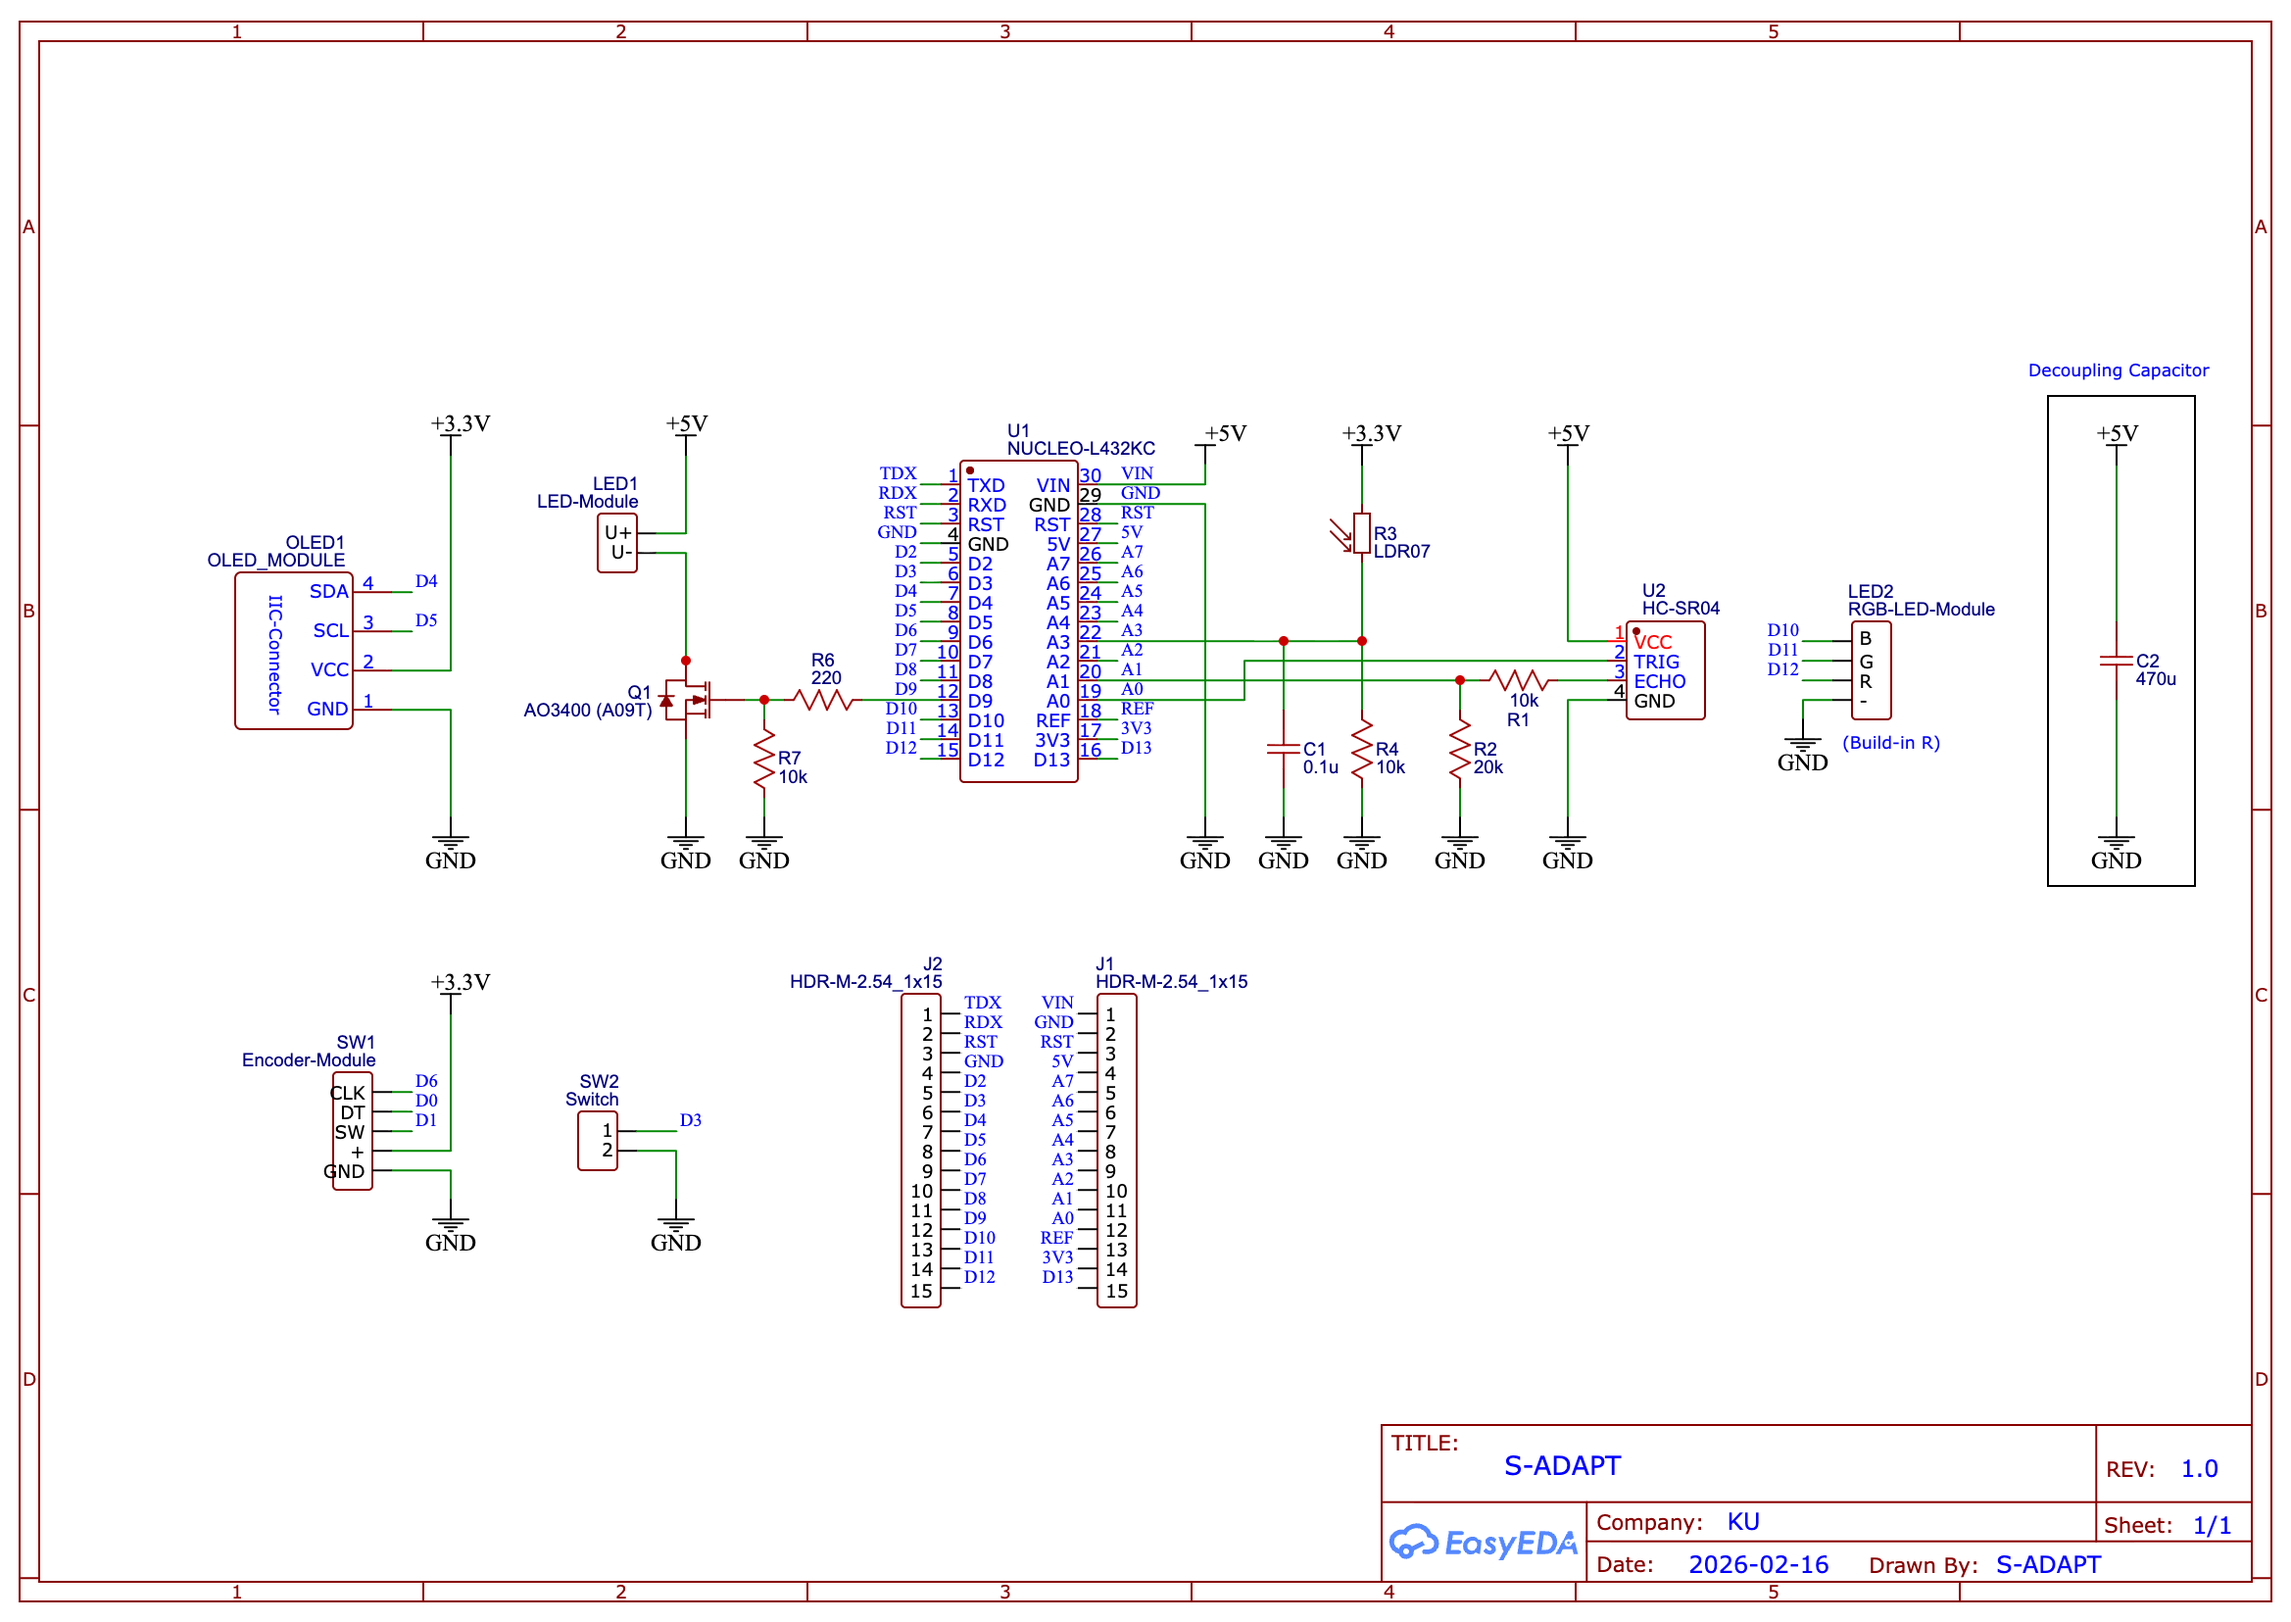
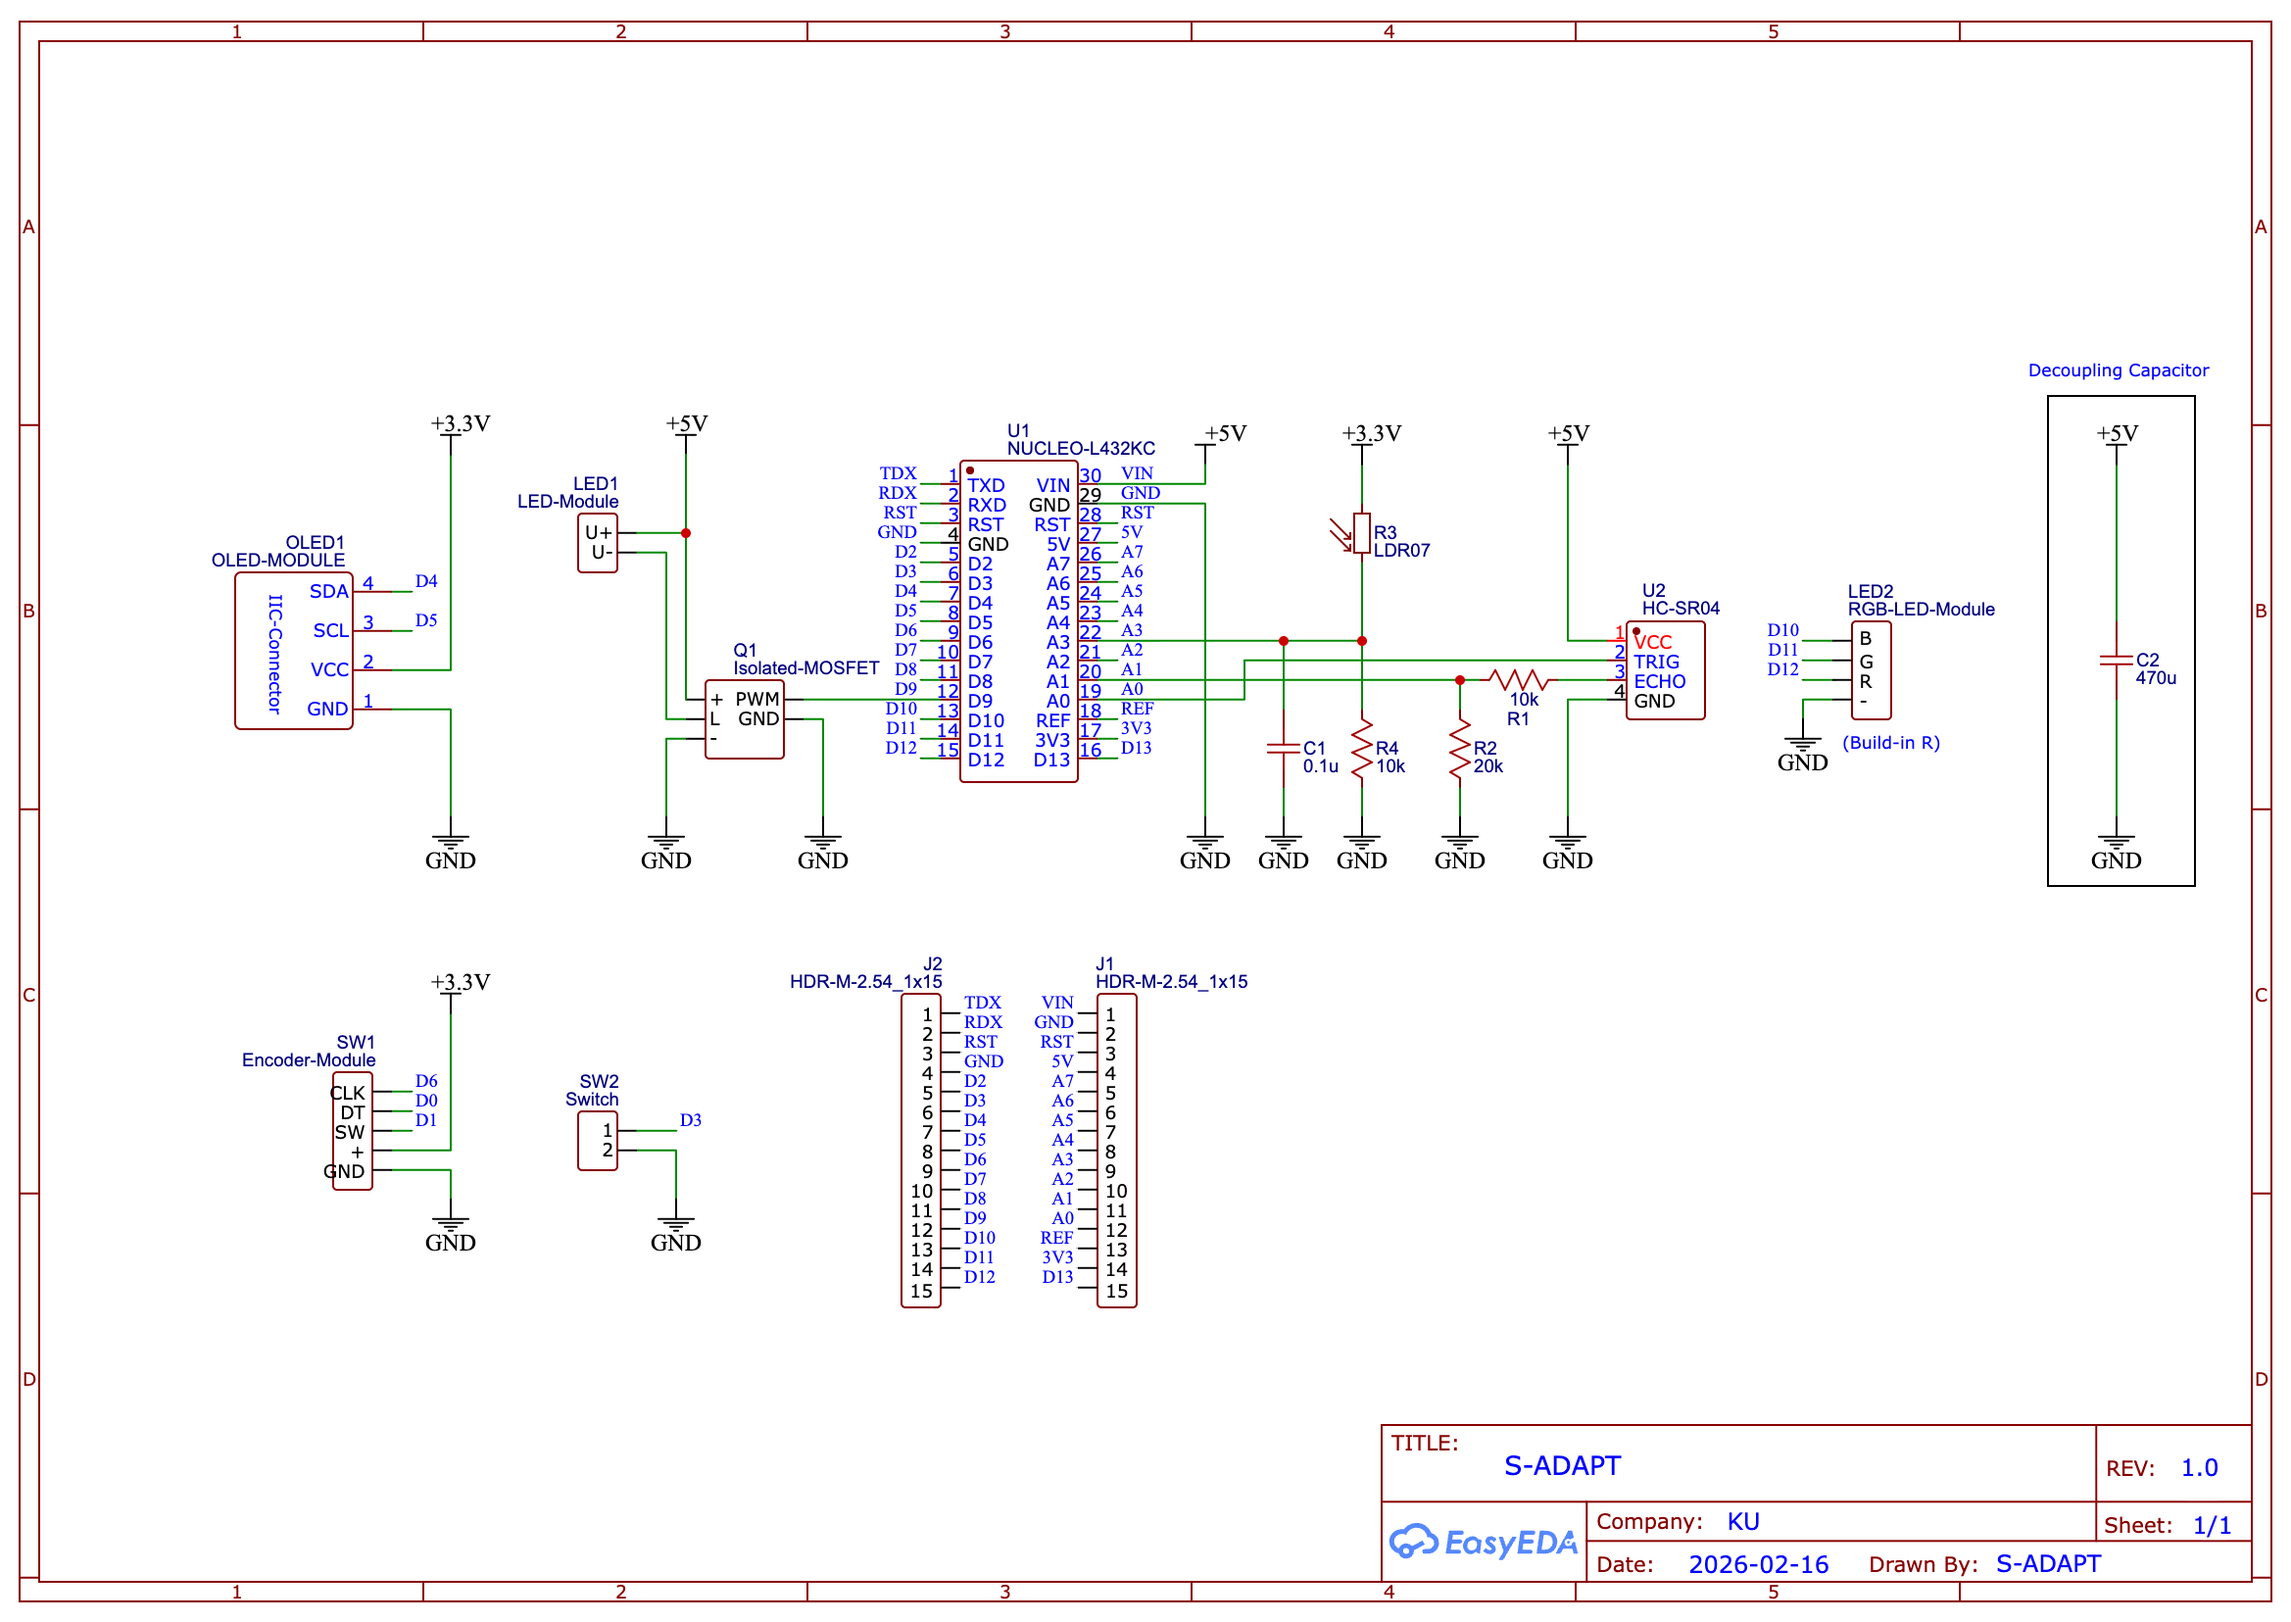
docs(hardware): update references for isolated MOSFET lamp module

diff --git a/docs/architecture/Architecture.md b/docs/architecture/Architecture.md
@@ -23,7 +23,7 @@ This document defines the current firmware architecture and hardware-to-code map
 | Module | Main Files | Responsibility |
 |---|---|---|
 | Switch input debounce | `S-ADAPT/Core/Src/input/switch_input.c` | Poll `BUTTON`/`SW2`, debounce transitions, queue switch events |
-| Main LED PWM driver | `S-ADAPT/Core/Src/bsp/main_led.c` | TIM1 CH1 PWM output control (`0..100%`) for MOSFET-driven lamp |
+| Main LED PWM driver | `S-ADAPT/Core/Src/bsp/main_led.c` | TIM1 CH1 PWM output control (`0..100%`) for isolated MOSFET module (shared lamp power rail) |
 | Ultrasonic driver | `S-ADAPT/Core/Src/sensors/ultrasonic.c` | TRIG pulse, TIM2 input capture, timeout/noise handling, distance conversion |
 | Display driver facade | `S-ADAPT/Core/Src/bsp/display.c` | OLED init and rendering calls via `ssd1306.c` |
 | Status LED control | `S-ADAPT/Core/Src/bsp/status_led.c` | RGB indication and error blink support |

diff --git a/docs/planning/planning-checklist.md b/docs/planning/planning-checklist.md
@@ -48,11 +48,11 @@ Source references:
 - [ ] LDR + divider network:
 - [ ] ADC raw values move correctly with light changes.
 - [ ] Scaled light percentage range is reasonable and monotonic.
-- [ ] Main LED module + MOSFET driver:
+- [ ] Main LED module + isolated MOSFET driver module:
 - [x] PWM duty changes match commanded brightness.
 - [ ] LED fully turns off at 0% and reaches expected max brightness.
 - [ ] No visible flicker at normal operating brightness.
-- [ ] MOSFET gate resistor and pull-down behavior validated (clean switching).
+- [ ] Isolated MOSFET module input switching is clean at steady duty and step changes.
 - [ ] RGB status LED module:
 - [ ] State color mapping works:
 - [ ] Blue = Auto mode

diff --git a/docs/references/Project Proposal.md b/docs/references/Project Proposal.md
@@ -56,6 +56,8 @@ Reading books in inadequate or excessive lighting conditions is detrimental to e
 - **Voltage Divider:** For the LDR sensor to adapt the voltage range for the ADC.
 - **LED Driver:** Using a Transistor or MOSFET to handle power requirements and PWM signals.
 
+Implementation note (current hardware): the project currently uses an isolated MOSFET module for the main lamp path while keeping a shared supply rail.
+
 ### 2.3 Operational Steps (ขั้นตอนการทำงาน)
 
 1. **Sensor Acquisition:** Sample LDR via ADC and capture Ultrasonic echo width via GPIO Timer Input Capture every 100 ms.

diff --git a/docs/planning/test-checklist.md b/docs/planning/test-checklist.md
@@ -21,7 +21,7 @@
 - [x] Error blink path works if display init is intentionally forced to fail.
 
 ### A3. Electrical behavior
-- [x] MOSFET gate control is clean (no chatter at steady duty).
+- [x] Isolated MOSFET module PWM input control is clean (no chatter at steady duty).
 - [x] LED can fully turn off and reach target max output.
 - [x] No reset or brownout during fast brightness changes.
 

diff --git a/README.md b/README.md
@@ -44,7 +44,7 @@ This repository is the implementation for the class project in `01204323 Electro
 - Ultrasonic: HC-SR04
 - Display: SSD1306 OLED (I2C)
 - Ambient sensor: LDR + divider
-- Main light driver: MOSFET + PWM
+- Main light driver: isolated MOSFET module input (PWM control, shared lamp power rail)
 - Inputs: rotary encoder (`CLK/DT/SW`) + extra page button
 
 ## Hardware Overview
